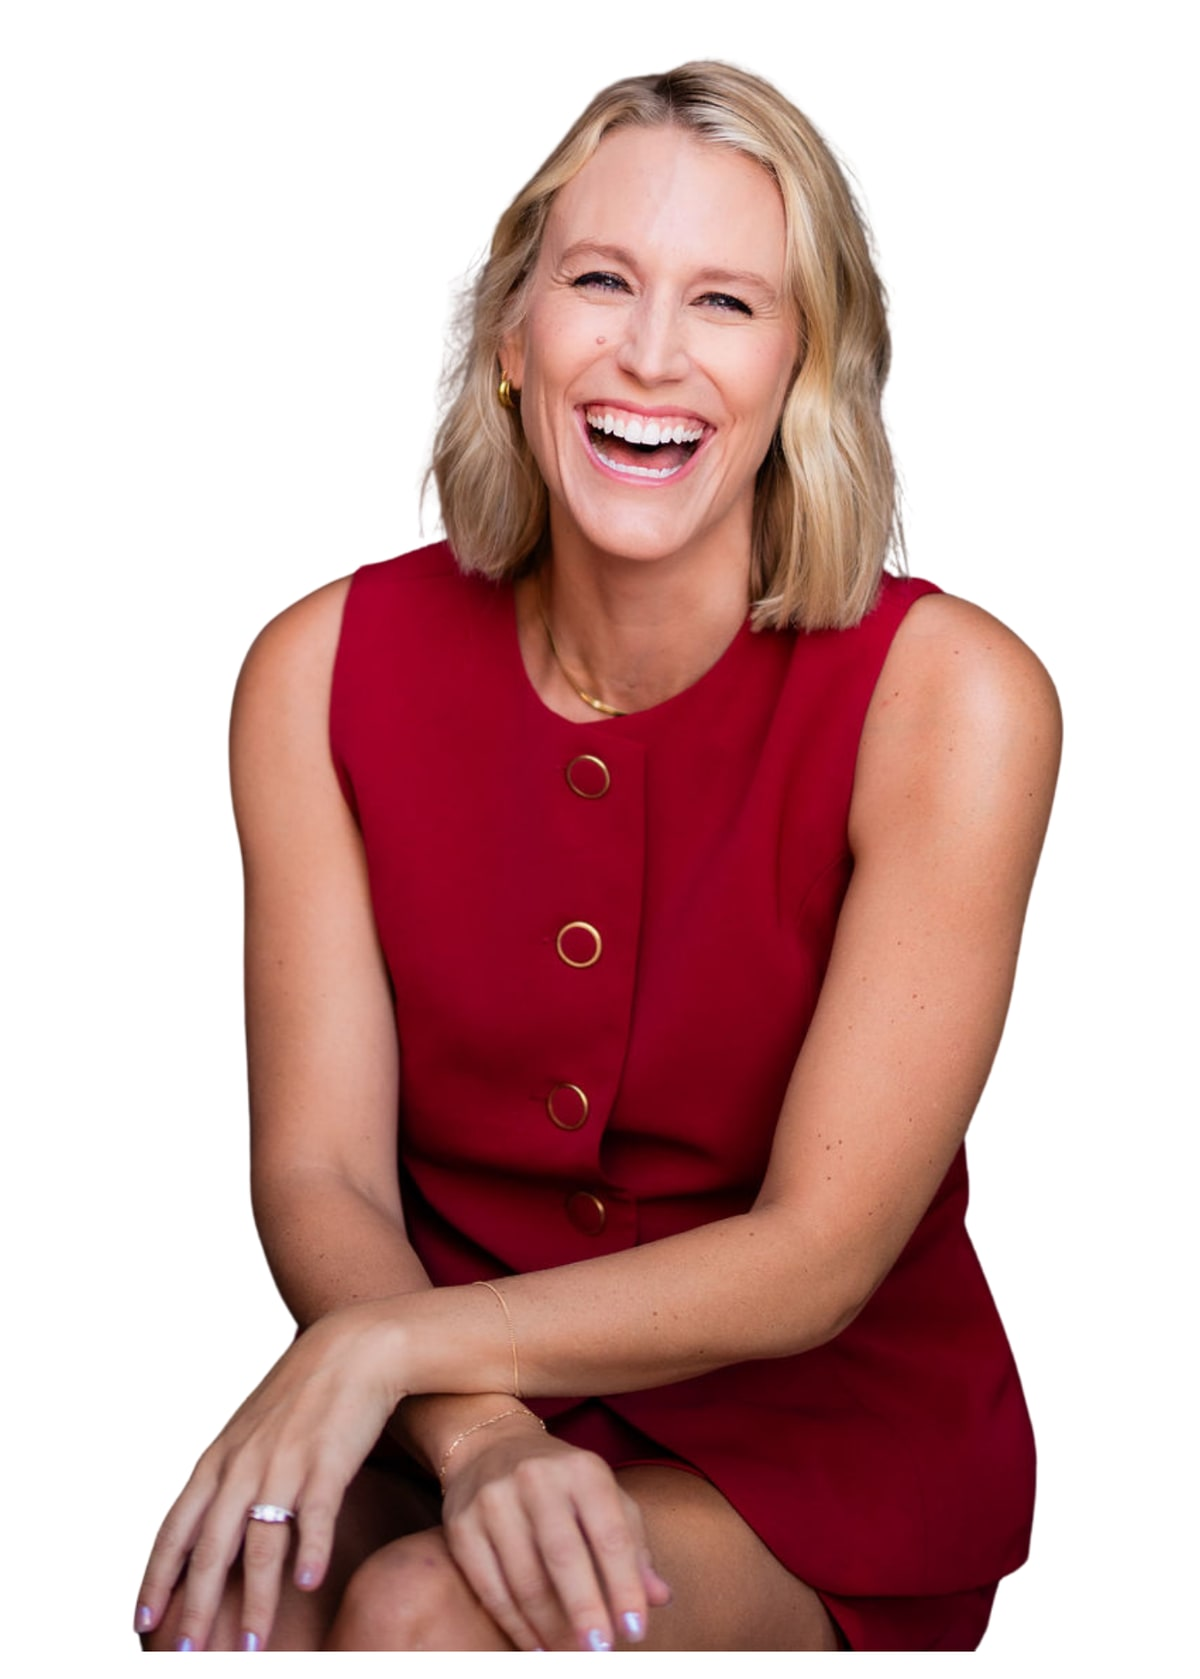
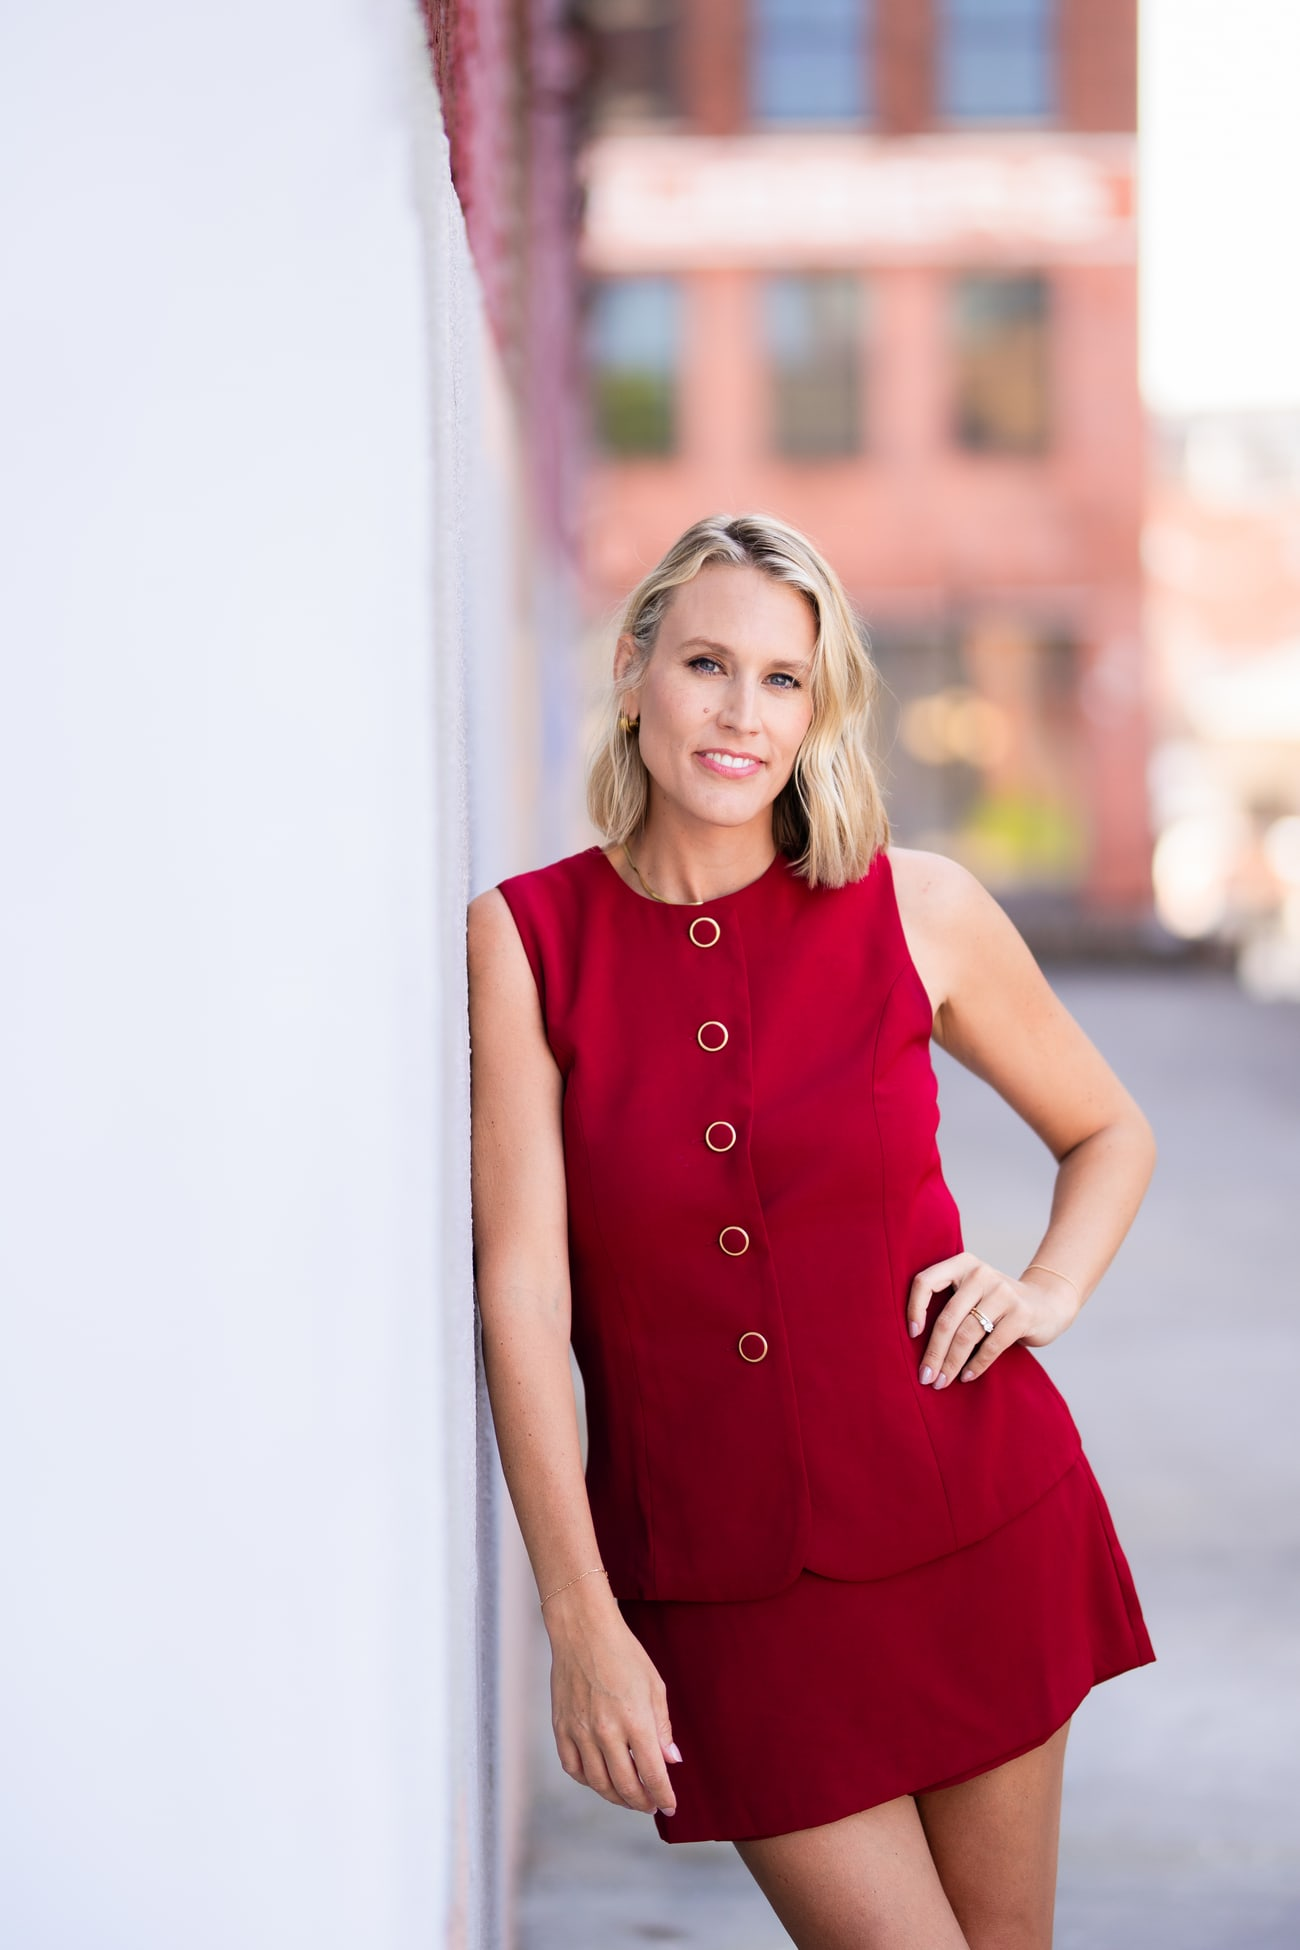
Connect: use the environmental leaning portrait
Swap to the downtown leaning shot (real background, more of the frame),
edge-to-edge like the site's other photos.

diff --git a/components/redesign/connect.tsx b/components/redesign/connect.tsx
@@ -30,7 +30,7 @@ export function ConnectRedesign() {
         <div className="mx-auto grid max-w-[1180px] items-start gap-[clamp(36px,5vw,64px)] md:grid-cols-[400px_1fr]">
           <div>
             {/* eslint-disable-next-line @next/next/no-img-element */}
-            <img src="/on/katie-connect.jpg" alt="Katie Spencer" className="block w-full object-cover" style={{ height: "clamp(380px,52vw,480px)", objectPosition: "center 18%", border: `1.5px solid ${C.ox}` }} />
+            <img src="/on/katie-connect.jpg" alt="Katie Spencer, downtown Knoxville" className="block w-full object-cover" style={{ height: "clamp(380px,52vw,480px)", objectPosition: "center 25%" }} />
             <div className="mt-7" style={{ borderTop: `1.5px solid ${C.ox}` }}>
               {INFO.map(([k, v]) => (
                 <div key={k} className="flex flex-wrap items-baseline justify-between gap-3 py-3.5" style={{ borderBottom: `1.5px solid ${C.ox}`, fontSize: 16, color: C.ox }}>
